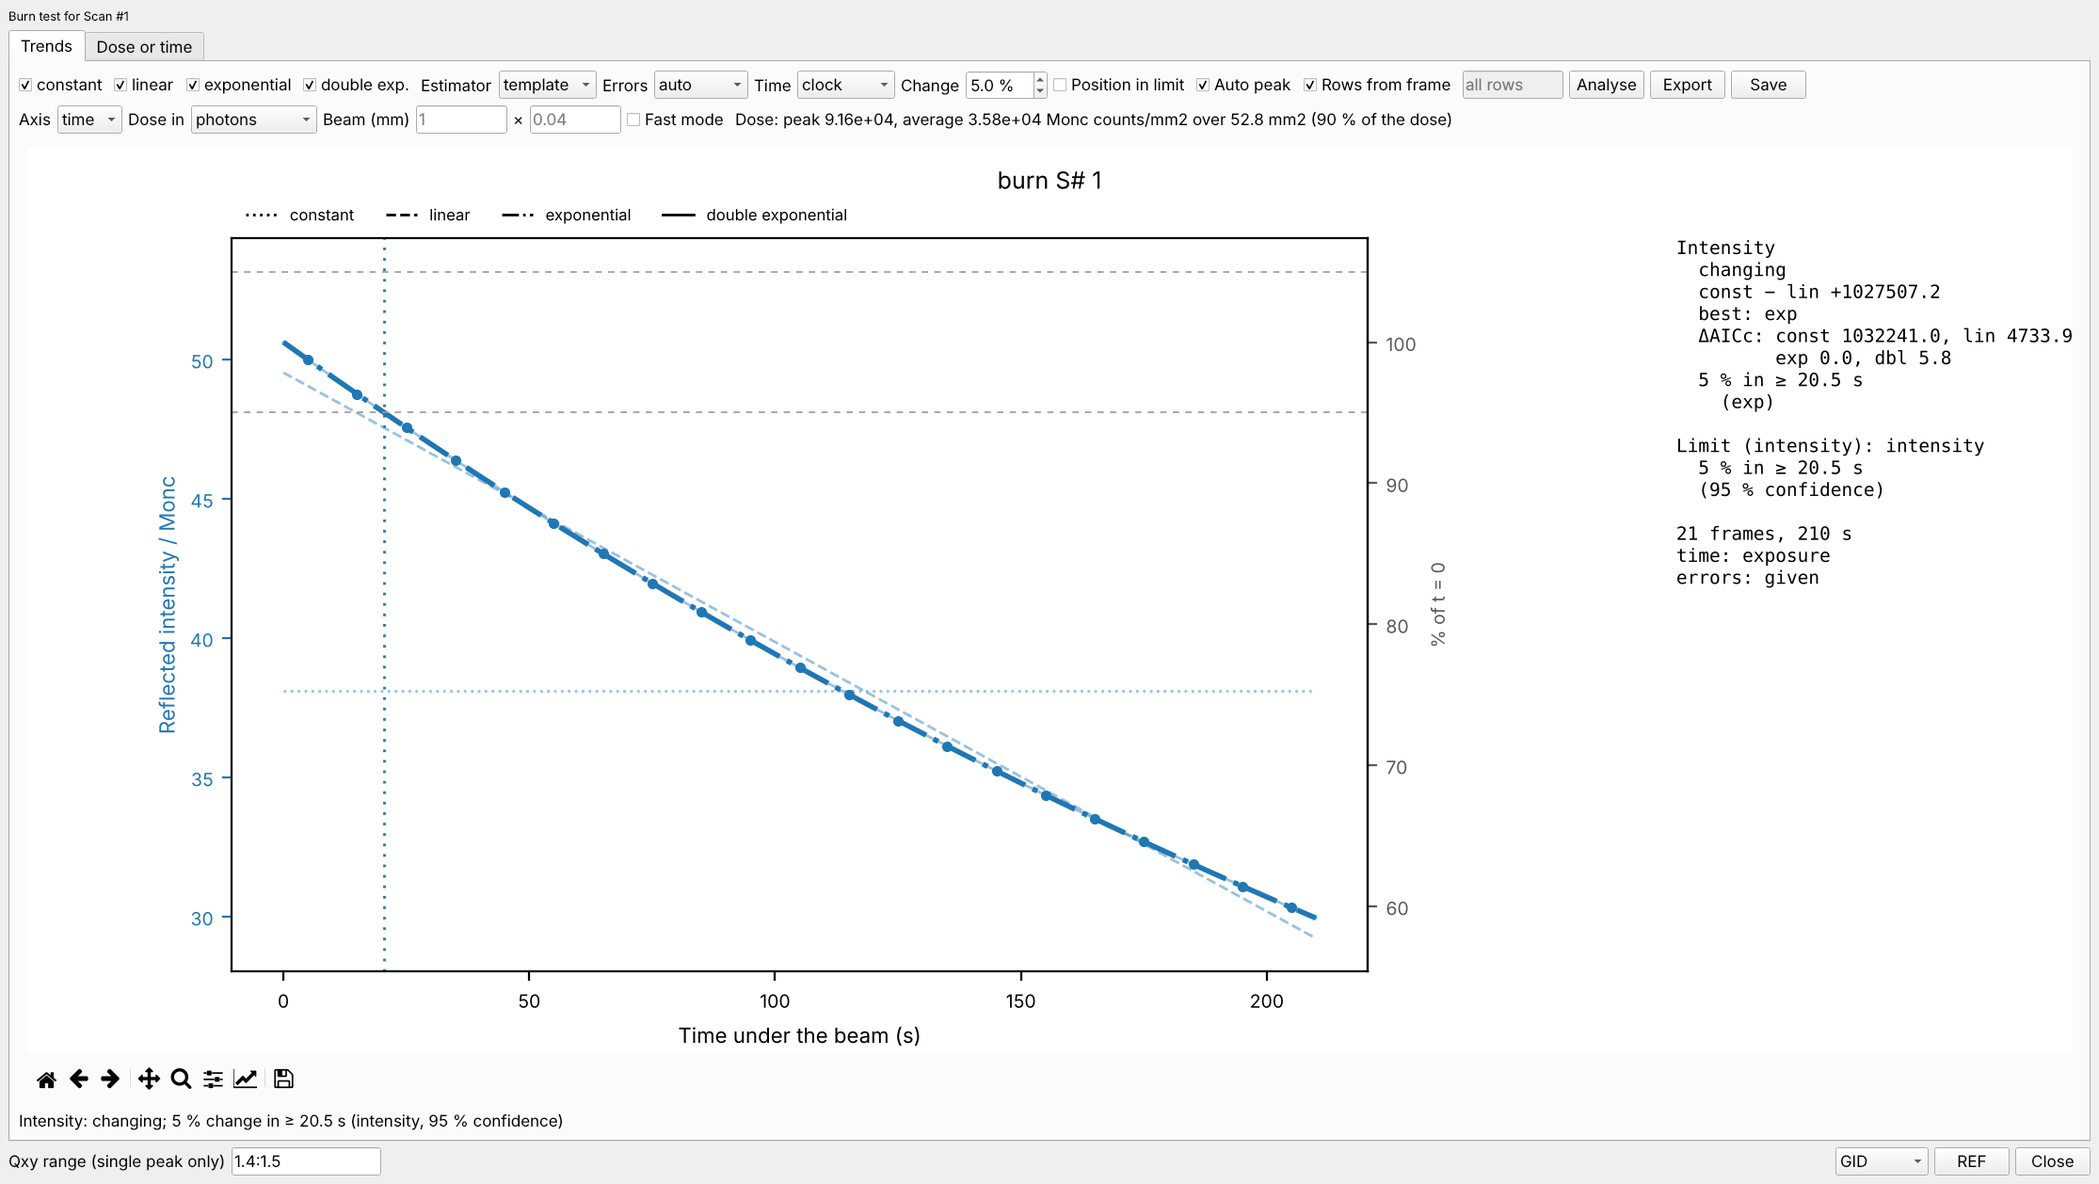
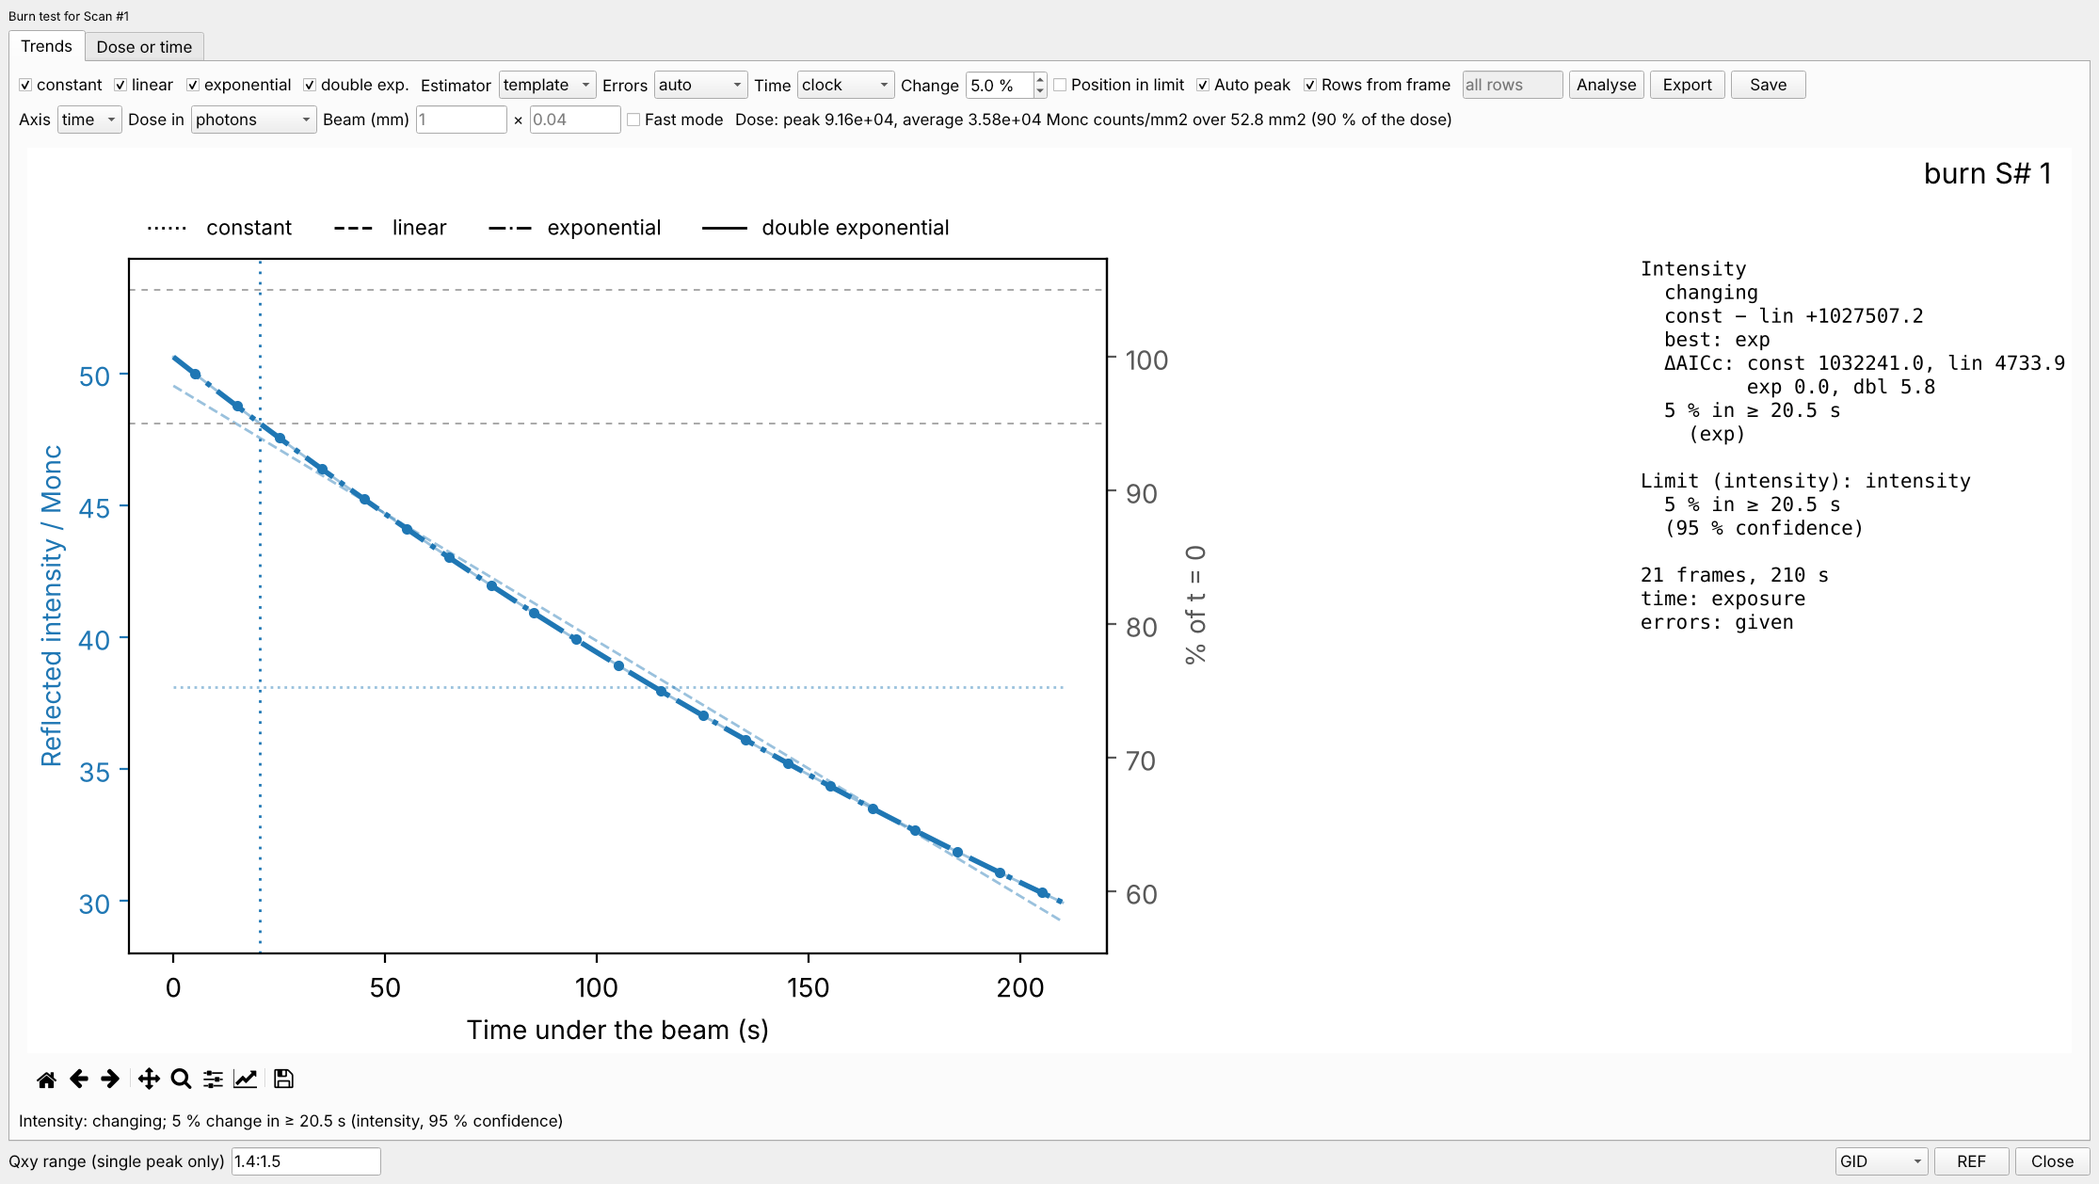
F111: plot text at least as large as the tab labels (owner)
The owner, 2026-11-26: "axes scales and labeling need an upgrade, mostly
in terms of default size of the font. It's a little too small; it should
be at least as large as the tab label font size".

The cause: the tab font follows the display scaling, matplotlib's figure
dpi (100) does not, so at 150 % Windows' 9 pt tabs are 18 logical pixels
and matplotlib's 10 pt 13.9.

- mplwidget.match_plot_fonts, called before the window builds its plots:
  rcParams font.size = tab pixels x 72 / figure dpi, never below
  matplotlib's 10 pt; tick labels, axis labels and legends ('medium')
  are then at least the tabs' height; titles larger.
- The burn dialog's trend plot hard-coded 6-8 pt: burn.plot(fontsize=)
  takes the window's base (ticks and axis labels at it, the legend and
  summary in proportion); None keeps the committed figures' sizes. Its
  margins are now matplotlib's constrained layout, recomputed at every
  draw at the canvas's size, and its title sits top right, clear of the
  legend.
- The ROI close-up and the residual strips stay proportionally smaller.
- Display only; no output number changes. In this cloud the matplotlibrc
  has figure.dpi 200, so only the burn shots change here.

Tests: tests/test_plot_fonts.py (the formula at 100-150 % scaling; a
window with 18 px tabs at 100 dpi draws ticks and labels of 18 px; the
burn plot's sizes). Screenshots 50, 50b, 54 regenerated and recorded.
FEATURE_REQUESTS F111 (and F112, the plot options, in progress);
MANUAL_NOTES.
[…]

diff --git a/lss_core/burn.py b/lss_core/burn.py
@@ -540,21 +540,34 @@ def summary_text(res):
     return '\n'.join(out)
 
 
-def _residual_panel(ax, c, col):
+def _sizes(fontsize):
+    """Text sizes (pt) of the burn plot: the compact ones it was drawn with
+    (``fontsize`` None: the committed figures), or, given a base size (the
+    window's, owner 2026-11-26: tick and axis labels at least the size of
+    the tab labels), ticks and axis labels at the base and the rest in the
+    same proportions as before."""
+    if fontsize is None:
+        return dict(axis=8, tick=7, second=7, legend=6, summary=7, title=9, resid=6)
+    b = float(fontsize)
+    return dict(axis=b, tick=b, second=b, legend=0.8 * b, summary=0.75 * b, title=1.1 * b, resid=0.8 * b)
+
+
+def _residual_panel(ax, c, col, fs=None):
     """The best model's residuals above one burn panel (F74)."""
+    fs = fs or _sizes(None)
     from lss_core import residuals as resid
     f = c.fits[c.best]
     rax = resid.panel(ax, True)
     resid.draw(rax, c.t, c.y, f(c.t), c.sigma, color=col)
     dof = max(int(f.n) - len(np.atleast_1d(f.params)), 1)
     rax.text(0.99, 0.92, resid.chi2_label('best: %s' % c.best, f.chi2 / dof), transform=rax.transAxes,
-             ha='right', va='top', fontsize=6)
-    rax.tick_params(labelsize=6)
-    rax.yaxis.label.set_fontsize(6)
+             ha='right', va='top', fontsize=fs['resid'])
+    rax.tick_params(labelsize=fs['resid'])
+    rax.yaxis.label.set_fontsize(fs['resid'])
     return rax
 
 
-def plot(res, fig, title='', residuals=False):
+def plot(res, fig, title='', residuals=False, fontsize=None):
     """Draw a burn result into a matplotlib figure: one panel per quantity
     (GID: intensity, position, FWHM; reflectivity: intensity), the values
     with their errors and every fitted model (the best thick), a dotted
@@ -563,7 +576,9 @@ def plot(res, fig, title='', residuals=False):
     threshold marked; the summary as text to the right of the panels.
     ``residuals``: above each panel, the residuals of its best model,
     (y − fit)/σ, with χ²/dof (F74, lss_core.residuals; off by default).
-    Returns the data axes."""
+    ``fontsize``: the base text size (pt; ``_sizes``); None keeps the compact
+    sizes of the committed figures. Returns the data axes."""
+    fs = _sizes(fontsize)
     fig.clf()
     qs = [q for q in ('intensity', 'centre', 'fwhm') if q in res.values]
     gs = fig.add_gridspec(len(qs), 2, width_ratios=[3.4, 1.0], wspace=0.42, hspace=0.12)
@@ -575,9 +590,9 @@ def plot(res, fig, title='', residuals=False):
         col = COLOURS[q]
         y, s = res.values[q]
         ax.errorbar(res.x, y, s, fmt='o', color=col, ms=3, lw=0.8)
-        ax.set_ylabel(UNITS[res.kind].get(q, q), color=col, fontsize=8)
-        ax.tick_params(axis='y', colors=col, labelsize=7)
-        ax.tick_params(axis='x', labelsize=7)
+        ax.set_ylabel(UNITS[res.kind].get(q, q), color=col, fontsize=fs['axis'])
+        ax.tick_params(axis='y', colors=col, labelsize=fs['tick'])
+        ax.tick_params(axis='x', labelsize=fs['tick'])
         c = res.trends.get(q)
         if c is None:
             continue
@@ -586,7 +601,7 @@ def plot(res, fig, title='', residuals=False):
                 best = m == c.best
                 ax.plot(tt, f(tt), STYLES[m], color=col, lw=2 if best else 1, alpha=1.0 if best else 0.45)
         if residuals and c.best in c.fits and c.fits[c.best].ok:
-            _residual_panel(ax, c, col)
+            _residual_panel(ax, c, col, fs)
         ch = c.change
         if ch is not None and np.isfinite(ch.confident) and ch.confident <= tt[-1]:
             ax.axvline(ch.confident, color=col, ls=(0, (1, 3)), lw=1)
@@ -599,24 +614,28 @@ def plot(res, fig, title='', residuals=False):
                 fwd, inv = (lambda v, sc=scale: 100 * v / sc), (lambda p, sc=scale: p * sc / 100)
                 marks = (100 * (1 - res.threshold), 100 * (1 + res.threshold))
             sec = ax.secondary_yaxis('right', functions=(fwd, inv))
-            sec.set_ylabel(lab, fontsize=7, color='0.35')
-            sec.tick_params(labelsize=7, colors='0.35')
+            sec.set_ylabel(lab, fontsize=fs['second'], color='0.35')
+            sec.tick_params(labelsize=fs['second'], colors='0.35')
             for mk in marks:
                 ax.axhline(inv(mk), color='0.6', lw=0.6, ls=(0, (4, 4)))
         if k < len(qs) - 1:
             ax.tick_params(axis='x', labelbottom=False)
     if res.axis == 'dose':
-        axes[-1].set_xlabel('Dose since the first frame (%s)' % res.dose_unit, fontsize=8)
+        axes[-1].set_xlabel('Dose since the first frame (%s)' % res.dose_unit, fontsize=fs['axis'])
     else:
-        axes[-1].set_xlabel('Time %s (s)' % ('under the beam' if res.time == 'exposure' else 'by the clock'), fontsize=8)
+        axes[-1].set_xlabel('Time %s (s)' % ('under the beam' if res.time == 'exposure' else 'by the clock'),
+                            fontsize=fs['axis'])
     from matplotlib.lines import Line2D
     axes[0].legend(handles=[Line2D([], [], color='k', ls=ls, lw=1, label=m) for m, ls in STYLES.items()
                             if any(m in c.fits and c.fits[m].ok for c in res.trends.values())],
-                   fontsize=6, frameon=False, ncol=4, loc='lower left', bbox_to_anchor=(0.0, 1.0))
+                   fontsize=fs['legend'], frameon=False, ncol=4, loc='lower left', bbox_to_anchor=(0.0, 1.0))
     text = fig.add_subplot(gs[:, 1])
     text.axis('off')
-    text.text(0.0, 1.0, summary_text(res), va='top', ha='left', fontsize=7, family='monospace',
+    text.text(0.0, 1.0, summary_text(res), va='top', ha='left', fontsize=fs['summary'], family='monospace',
               transform=text.transAxes)
     if title:
-        fig.suptitle(title, fontsize=9)
+        if fontsize is None:
+            fig.suptitle(title, fontsize=fs['title'])
+        else:                          # top right, above the summary, clear of the legend over the first panel
+            fig.suptitle(title, fontsize=fs['title'], x=0.99, ha='right')
     return axes

diff --git a/tests/test_plot_fonts.py b/tests/test_plot_fonts.py
@@ -1,0 +1,58 @@
+"""Plot text at least as large as the tab labels (owner, 2026-11-26: "axes
+scales and labeling need an upgrade, mostly in terms of default size of the
+font ... at least as large as the tab label font size").
+
+The tab font follows the system's display scaling; matplotlib's figures do
+not (rcParams figure.dpi, 100 by default), so at 150 % scaling Windows'
+9 pt tab font is 18 logical pixels while matplotlib's 10 pt is 13.9. The
+window sets matplotlib's base size from the tab font before it builds its
+plots: pt = px x 72 / dpi, never below matplotlib's 10 pt."""
+import matplotlib
+import pytest
+
+import mplwidget
+
+
+@pytest.mark.parametrize('px, dpi, pt', [
+    (18, 100, 12.96),         # Segoe UI 9 pt at 150 % scaling, matplotlib's default dpi
+    (15, 100, 10.8),          # 125 %
+    (12, 100, 10.0),          # 100 %: matplotlib's 10 pt is already larger
+    (17, 200, 10.0),          # this cloud's matplotlibrc (figure.dpi 200)
+])
+def test_plot_font_points(px, dpi, pt):
+    assert mplwidget.plot_font_points(px, dpi) == pytest.approx(pt)
+
+
+@pytest.mark.gui
+def test_the_window_sizes_plot_text_from_the_tabs(qapp, recorder, monkeypatch):
+    from PyQt5.QtGui import QFont, QFontInfo
+    from PyQt5.QtWidgets import QApplication
+    from mainwindow import MainWindow
+    import sweep
+    monkeypatch.setitem(matplotlib.rcParams, 'figure.dpi', 100.0)     # matplotlib's own default
+    monkeypatch.setitem(matplotlib.rcParams, 'font.size', 10.0)       # restored after the test
+    big = QFont(QApplication.font())
+    big.setPixelSize(18)                                               # the tabs at 150 % scaling
+    real = QApplication.font
+    monkeypatch.setattr(QApplication, 'font', staticmethod(lambda *a: big if a == ('QTabBar',) else real(*a)))
+    w = MainWindow()
+    try:
+        assert w.plotFontPt == pytest.approx(12.96, abs=0.05)
+        ax = w.ui.specPlotMplWidget.canvas.ax
+        ax.plot([0, 1], [0, 1])
+        ax.set_xlabel('sh')
+        w.ui.specPlotMplWidget.canvas.draw()
+        dpi = w.ui.specPlotMplWidget.canvas.figure.dpi
+        tick = ax.xaxis.get_major_ticks()[0].label1.get_size()
+        assert tick * dpi / 72 >= 18 - 0.1 and ax.xaxis.label.get_size() * dpi / 72 >= 18 - 0.1
+        assert QFontInfo(big).pixelSize() == 18
+    finally:
+        sweep.dispose(w, qapp, recorder)
+    assert recorder.exceptions == []
+
+
+def test_burn_plot_keeps_its_compact_sizes_unless_given_a_base():
+    from lss_core import burn
+    assert burn._sizes(None)['tick'] == 7 and burn._sizes(None)['axis'] == 8      # the committed figures
+    s = burn._sizes(13.0)
+    assert s['tick'] == 13.0 and s['axis'] == 13.0 and s['legend'] < 13.0

diff --git a/mplwidget.py b/mplwidget.py
@@ -8,6 +8,39 @@ from matplotlib.figure import Figure
 import numpy as np
 from matplotlib.backends.backend_qt5agg import NavigationToolbar2QT as NavigationToolbar
 
+MPL_DEFAULT_PT = 10.0      # matplotlib's own font.size: the plots' text is never made smaller than this
+
+
+def plot_font_points(text_px, dpi, floor=MPL_DEFAULT_PT):
+	"""The base font size (pt) at which matplotlib's 'medium' text (tick
+	labels, axis labels, legends) is ``text_px`` logical pixels high on a
+	figure of ``dpi``: pt = px x 72 / dpi, and never below ``floor``. A
+	figure of ``dpi`` shown at w logical pixels is w/dpi inches wide, so a
+	font of p pt is p/72 x dpi logical pixels."""
+	return max(float(floor), float(text_px) * 72.0 / float(dpi))
+
+
+def match_plot_fonts():
+	"""Owner, 2026-11-26: "axes scales and labeling ... at least as large as
+	the tab label font size". Sets matplotlib's base font size (rcParams
+	font.size) so that tick labels and axis labels are at least as tall as
+	the tab labels' text (QApplication.font('QTabBar') at the screen's
+	logical DPI), for the figures made afterwards (call it before they are
+	built). The tab font follows the system's display scaling and the
+	figures' DPI (rcParams figure.dpi, 100 by default) does not, so at 125 or
+	150 % scaling matplotlib's 10 pt was smaller than the tabs. Returns the
+	size set (pt)."""
+	import matplotlib
+	from PyQt5.QtGui import QFontInfo
+	app = QtWidgets.QApplication.instance()
+	if app is None:
+		return matplotlib.rcParams['font.size']
+	px = QFontInfo(QtWidgets.QApplication.font('QTabBar')).pixelSize()
+	pt = round(plot_font_points(px, matplotlib.rcParams['figure.dpi']), 1)
+	matplotlib.rcParams['font.size'] = pt
+	return pt
+
+
 class MplCanvas(FigureCanvas):
 	def __init__(self):
 		self.fig = Figure()

diff --git a/mainwindow.py b/mainwindow.py
@@ -187,6 +187,8 @@ class MainWindow (QMainWindow):
 
     def __init__ (self, parent = None):
         QMainWindow.__init__(self, parent)
+        import mplwidget
+        self.plotFontPt=mplwidget.match_plot_fonts()   # owner, 2026-11-26: plot text at least the tabs' size
         self.ui = Ui_MainWindow()
         self.ui.setupUi(self)
         self.pilatus=TwoDDetector('Pilatus')
@@ -5829,12 +5831,16 @@ class MainWindow (QMainWindow):
         summary to the right (owner, 2026-11-21; lss_core.burn.plot)."""
         canvas=self.uipdburn.burnTrendPlotWidget.canvas
         burnmod.plot(res,canvas.fig,'%s S# %d' % (os.path.basename(self.specFileName),res.scan),
-                     residuals=self.fitResidualsShown())     # F74
-        try:
-            canvas.fig.subplots_adjust(left=0.1,right=0.97,top=0.9,bottom=0.09)
+                     residuals=self.fitResidualsShown(),     # F74
+                     fontsize=mpl.rcParams['font.size'])     # owner, 2026-11-26: the tabs' size at least
+        try:        # F111: the margins from the text at the canvas's size, recomputed at every draw (resizing too)
+            canvas.fig.set_layout_engine('constrained')
         except Exception:
-            pass
-        canvas.draw()
+            canvas.fig.subplots_adjust(left=0.1,right=0.97,top=0.9,bottom=0.09)
+        import warnings
+        with warnings.catch_warnings():   # a canvas not laid out yet is too small for the layout: it is redone on show
+            warnings.filterwarnings('ignore',message='constrained_layout not applied')
+            canvas.draw()
 
     def exportBurn(self):
         """The burn test on show as two text files (F95 B9)."""

diff --git a/docs/FEATURE_REQUESTS.md b/docs/FEATURE_REQUESTS.md
@@ -437,6 +437,8 @@ order"), for a day of reflectivity only; the whole answer is in
 | F109 | **Dose shown as average and peak, with the peak split** (owner, 2026-11-25, GUI manager Q8, MQ-5): the burn dialog's dose shows both the footprint-averaged dose (over reasonable extents) and the peak dose, the peak dose broken into what the top 10 % of the illuminated area received against the remaining 90 %. The beam width is prefilled with 1 mm; a Gauss fit of an S1 horizontal slit scan, if one can be found, models the beam first. Extends F98, F107. **Core built 2026-11-25 (main man):** `exp.dose_summary` (peak, average over the smallest area that received 90 % of the dose, the most exposed 10 % of it against the other 90 %; `dose.dose_map`) and `exp.beam_width` (S1 horizontal slit scans fitted as a peak, an edge or a box; else the 1 mm prefill, read as √(2π)σx so that today's dose is the peak). **Not yet:** the burn dialog's display (GUI manager, after B10); the extents' choice (asked); the motor names of real S1 slit scans (asked of the local agent). **Dialog, 2026-11-25 (GUI manager):** the width field defaults to `exp.beam_width()`; "Dose: peak …, average …" for the burn on show, the split in its tooltip; the extent left to the core's default until the owner chooses. |
 
 | F110 | **MCA Fit lines two ways, both fits and errors reported** (owner, 2026-11-26, to main man): "xeray should be default for mca fitting, but it tends to undercount error so include our best method (poisson fixed width etc) as well, and report both fits and errors". **Revised by the owner the same day** (asked by main man after GUI manager's known-truth case, #123, and the real-data results C66, C69): "Width from the sum" and "Our fit the default". **Built 2026-11-26 (main man):** the reader's Poisson fit (Si escapes stripped, position and width from the sum of the series; `mca_line_options`: `strip_escape` on, `detector_width` off) is the value plotted (circles), merged and exported in `_flu.txt`; `fluorescence.xeray_fit` (XeRay's Gaussian on a straight line, unweighted least squares, error √(counts in the window)) is reported beside it in every row (columns 5–6), the list ('XeRay'), the plot (squares), the workbook (I_xeray, dI_xeray) and `_flu_xeray.txt` (same three columns); Merge merges both pairs over the same groups (`fluorescence.fit_line_series`, `merge_rows`; `tests/test_mca_xeray.py`). The owner also asked: "Put a to-do to continue refining that shootout of methods for a later time, since I don't believe each library/method was optimized enough." (RELEASE_PLAN, After 2.0; TODO). |
+| F111 | **Plot text at least as large as the tab labels** (owner, 2026-11-26): "axes scales and labeling need an upgrade, mostly in terms of default size of the font. It's a little too small; it should be at least as large as the tab label font size". | **Built 2026-11-26** (GUI manager): the window sets matplotlib's base font size from the tab font before it builds its plots (`mplwidget.match_plot_fonts`: pt = px × 72 / figure dpi, never below matplotlib's 10 pt), so tick labels, axis labels and legends are at least the tabs' height. The cause: the tab font follows the display scaling and matplotlib's figure dpi (100) does not, so at 150 % Windows' 9 pt tabs are 18 px and matplotlib's 10 pt 13.9 px. The burn dialog's compact trend plot takes the same base (`burn.plot(fontsize=)`; the committed figures keep their sizes). The ROI close-up and the residual strips stay proportionally smaller. |
+| F112 | **A plot options button for the plots of each tab** (owner, 2026-11-26): "Add a plot preferences button that applies to the plots on that tab that has useful options, like font size, minor/major ticks, grid on/off". | In progress 2026-11-26 (GUI manager). |
 
 Also decided (see `docs/gui/questions.md` Answers): movie at 3 or more frames, space pauses, arrows step when paused (F69); weighted residuals (F74); Apex tab, Beamlines menu, `peakfit2`/`peakfitpara` and the Command line row removed; Quit works and Documentation opens `docs/SCRIPTING.md`; Messages, Errors and Script panes follow D59.
 

diff --git a/docs/MANUAL_NOTES.md b/docs/MANUAL_NOTES.md
@@ -201,6 +201,9 @@ Each line: feature — where — default — script — notes entry (date).
   fields), whether or not R/RF is ticked; R/RF only chooses what is
   plotted, and whether Save puts R/RF in the workbook. With "+ covariance"
   both sidecars are written too.
+- Plot text (F111, 2026-11-26): tick labels, axis labels and legends are
+  at least as large as the tab labels, whatever the display scaling (the
+  reader sizes matplotlib's text from the tab font when it starts).
 - Export names (2026-11-26): every Export dialog says in its title what
   it adds to the name (e.g. "the name gets _flu.txt"); a name typed with
   that ending, or with .txt, is not given it twice. The Fit Peak dialog's

diff --git a/docs/gui/screens/README.md b/docs/gui/screens/README.md
@@ -6,7 +6,7 @@ and synthetic data from `tests/synth.py` for MCA / fluorescence, the reflectivit
 (NX has no MCA data). Regenerate the whole folder with the command above; the table is rewritten, the
 Observations section is by hand and is kept.
 
-76 images, 4.9 MB, last run took 48 s.
+76 images, 4.9 MB, last run took 46 s.
 
 | File | What it shows | Data and state |
 |---|---|---|
